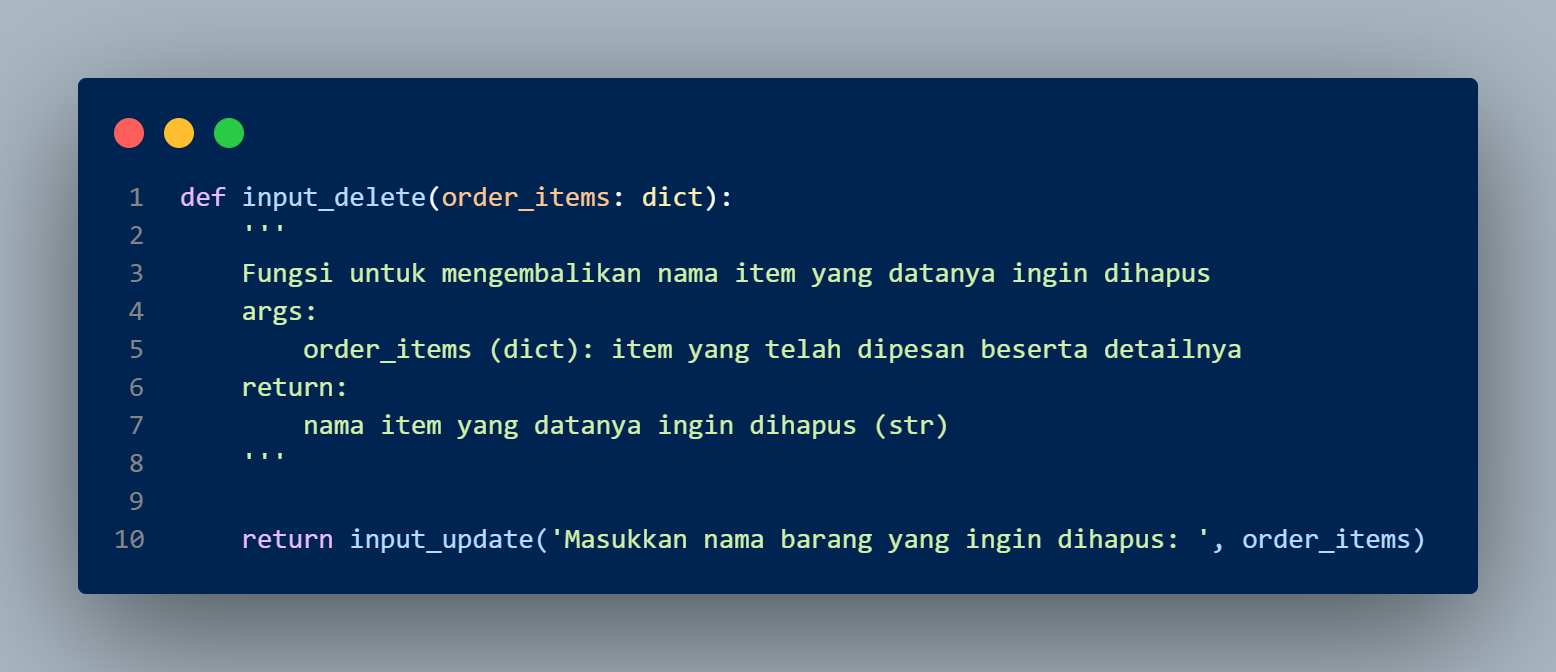
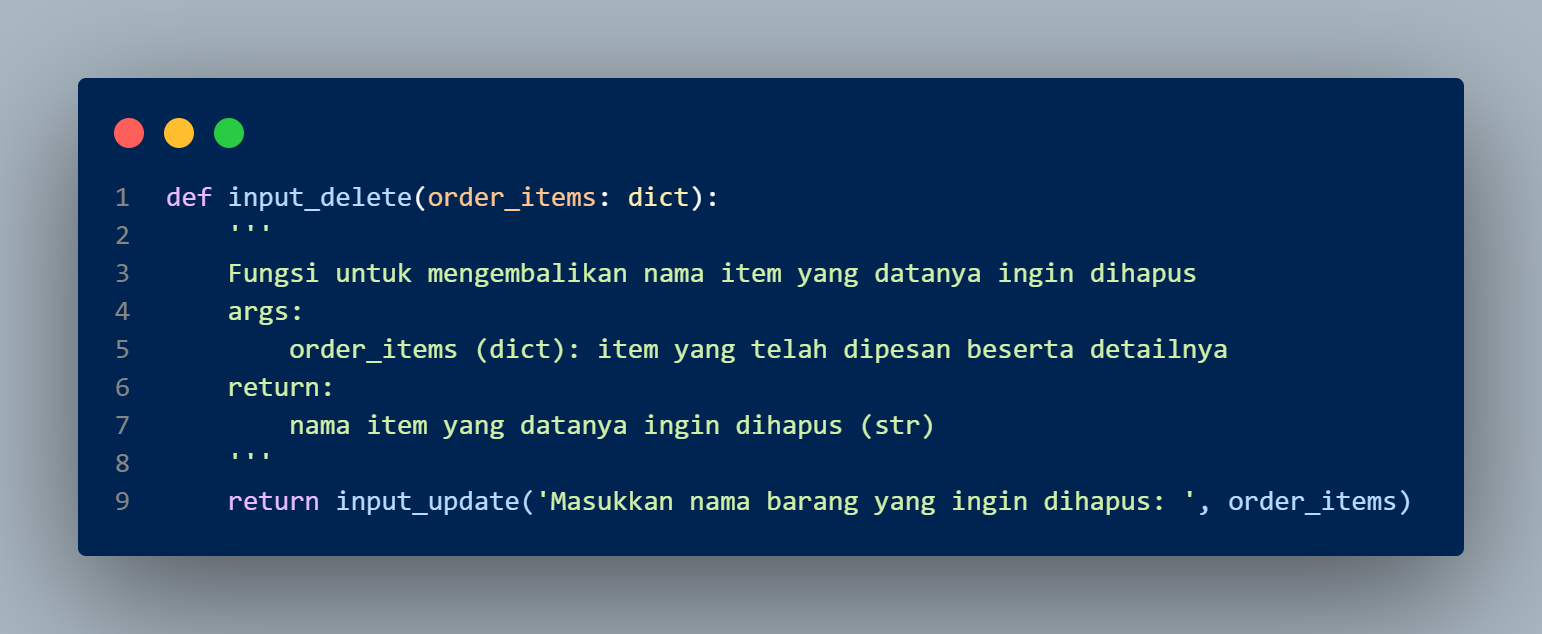
Updating some modules

diff --git a/inputs.py b/inputs.py
@@ -99,23 +99,23 @@ def input_update_name(order_items: dict):
         order_items (dict): item yang telah dipesan beserta detailnya
     return:
         nama_item (str): nama item yang lama
-        nama_item_baru (str): nama item yang baru
+        update_nama_item (str): nama item yang baru
     '''
     # Mengambil input nama item yang lama maupun yang baru
     nama_item = input_update('Masukkan nama barang yang ingin diupdate: ', order_items)
-    nama_item_baru = (input('Masukkan nama barang yang baru: ')).title()
+    update_nama_item = (input('Masukkan nama barang yang baru: ')).title()
 
     # Memastikan nama_item_baru tidak kosong
-    while nama_item_baru == '':
+    while update_nama_item == '':
             print('Nama barang yang baru tidak boleh kosong. Silakan coba lagi.')
-            nama_item_baru = input('Masukkan nama barang yang baru: ').title()
+            update_nama_item = input('Masukkan nama barang yang baru: ').title()
 
     # Memastikan nama_item_baru tidak sama dengan nama_item
-    while nama_item_baru == nama_item:
+    while update_nama_item == nama_item:
         print(f'Nama barang yang baru tidak boleh sama dengan sebelumnya: {nama_item}')
-        nama_item_baru = (input('Masukkan nama barang yang baru: ')).title()
+        update_nama_item = (input('Masukkan nama barang yang baru: ')).title()
     
-    return nama_item, nama_item_baru
+    return nama_item, update_nama_item
 
 def input_update_qty(order_items: dict):
     '''
@@ -124,23 +124,23 @@ def input_update_qty(order_items: dict):
         order_items (dict): item yang telah dipesan beserta detailnya
     return:
         nama_item (str): nama item yang jumlahnya ingin diubah
-        jumlah_item (int): jumlah item yang baru
+        update_jumlah_item (int): jumlah item yang baru
     '''
     # Mengambil input nama dan jumlah item
     nama_item = input_update('Masukkan nama barang yang jumlahnya ingin diupdate: ', order_items)
-    jumlah_item = input_int(f'Masukkan jumlah {nama_item.lower()} yang baru: ')
+    update_jumlah_item = input_int(f'Masukkan jumlah {nama_item.lower()} yang baru: ')
 
     # Memastikan jumlah_item lebih dari 0
-    while jumlah_item <= 0:
+    while update_jumlah_item <= 0:
             print(f'Jumlah {nama_item} harus lebih dari 0. Silakan coba lagi.')
-            jumlah_item = input_int(f'Masukkan jumlah {nama_item} yang baru: ')
+            update_jumlah_item = input_int(f'Masukkan jumlah {nama_item} yang baru: ')
 
     # Memastikan jumlah_item tidak sama dengan jumlah_item di dalam order_items
-    while jumlah_item == order_items[nama_item][0]:
+    while update_jumlah_item == order_items[nama_item][0]:
         print(f'Jumlah {nama_item.lower()} tidak boleh sama dengan sebelumnya: {order_items[nama_item][0]}')
-        jumlah_item = input_int(f'Masukkan jumlah {nama_item.lower()} yang baru: ')
+        update_jumlah_item = input_int(f'Masukkan jumlah {nama_item.lower()} yang baru: ')
     
-    return nama_item, jumlah_item
+    return nama_item, update_jumlah_item
 
 def input_update_price(order_items: dict):
     '''
@@ -149,23 +149,23 @@ def input_update_price(order_items: dict):
         order_items (dict): item yang telah dipesan beserta detailnya
     return:
         nama_item (str): nama item yang harganya ingin diubah
-        harga_item (int): harga item yang baru
+        update_harga_item (int): harga item yang baru
     '''
     # Mengambil input nama dan harga item
     nama_item = input_update('Masukkan nama barang yang harganya ingin diupdate: ', order_items)
-    harga_item = input_int(f'Masukkan harga {nama_item.lower()} yang baru: ')
+    update_harga_item = input_int(f'Masukkan harga {nama_item.lower()} yang baru: ')
 
     # Memastikan harga_item lebih dari 0
-    while harga_item <= 0:
+    while update_harga_item <= 0:
             print(f'Harga {nama_item} harus lebih dari 0. Silakan coba lagi.')
-            harga_item = input_int(f'Masukkan harga {nama_item} yang baru: ')
+            update_harga_item = input_int(f'Masukkan harga {nama_item} yang baru: ')
 
     # Memastikan harga_item tidak sama dengan harga_item di dalam order_items
-    while harga_item == order_items[nama_item][1]:
+    while update_harga_item == order_items[nama_item][1]:
         print(f'Harga {nama_item.lower()} tidak boleh sama dengan sebelumnya: {order_items[nama_item][1]}')
-        harga_item = input_int(f'Masukkan harga {nama_item.lower()} yang baru: ')
+        update_harga_item = input_int(f'Masukkan harga {nama_item.lower()} yang baru: ')
     
-    return nama_item, harga_item
+    return nama_item, update_harga_item
 
 def input_delete(order_items: dict):
     '''
@@ -175,5 +175,4 @@ def input_delete(order_items: dict):
     return:
         nama item yang datanya ingin dihapus (str)
     '''
-    
     return input_update('Masukkan nama barang yang ingin dihapus: ', order_items)

diff --git a/update_item.py b/update_item.py
@@ -24,7 +24,7 @@ def update_item_qty(nama_item: str, update_jumlah_item: int, order_items: dict):
     Fungsi untuk mengupdate jumlah item yang telah dipesan sebelumnya
     args:
         nama_item (str): nama item yang jumlahnya ingin diubah
-        update_jumlah_item (str): jumlah item yang baru
+        update_jumlah_item (int): jumlah item yang baru
         order_items (dict): item yang telah dipesan beserta detailnya
     return:
         None
@@ -45,7 +45,7 @@ def update_item_price(nama_item: str, update_harga_item: int, order_items: dict)
     Fungsi untuk mengupdate harga item yang telah dipesan sebelumnya
     args:
         nama_item (str): nama item yang harganya ingin diubah
-        update_harga_item (str): harga item yang baru
+        update_harga_item (int): harga item yang baru
         order_items (dict): item yang telah dipesan beserta detailnya
     return:
         None

diff --git a/database_engine.py b/database_engine.py
@@ -9,8 +9,4 @@ def database_engine():
     return:
         Fungsi untuk membuat engine database
     '''
-    return create_engine(
-    'sqlite:///C:/Users/LENOVO/OneDrive/Desktop/Engineering/Pacmann/'
-    'Python/Projects/super-cashier/database/project.db', 
-    echo=True
-    )
+    return create_engine('sqlite:///database/project.db', echo=True)
